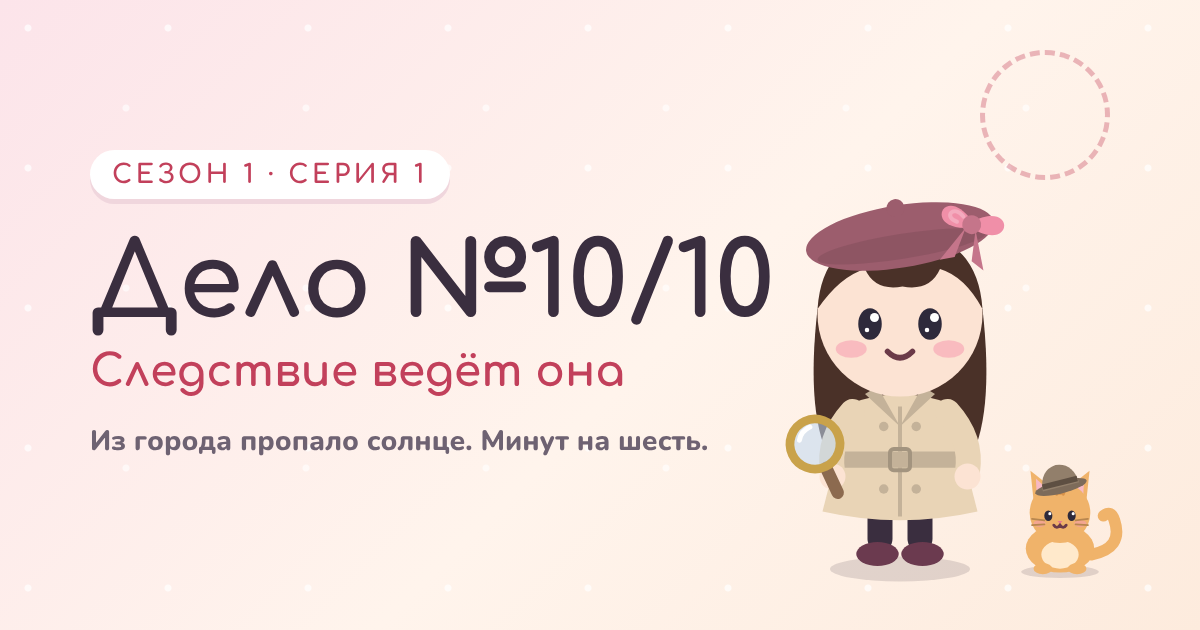
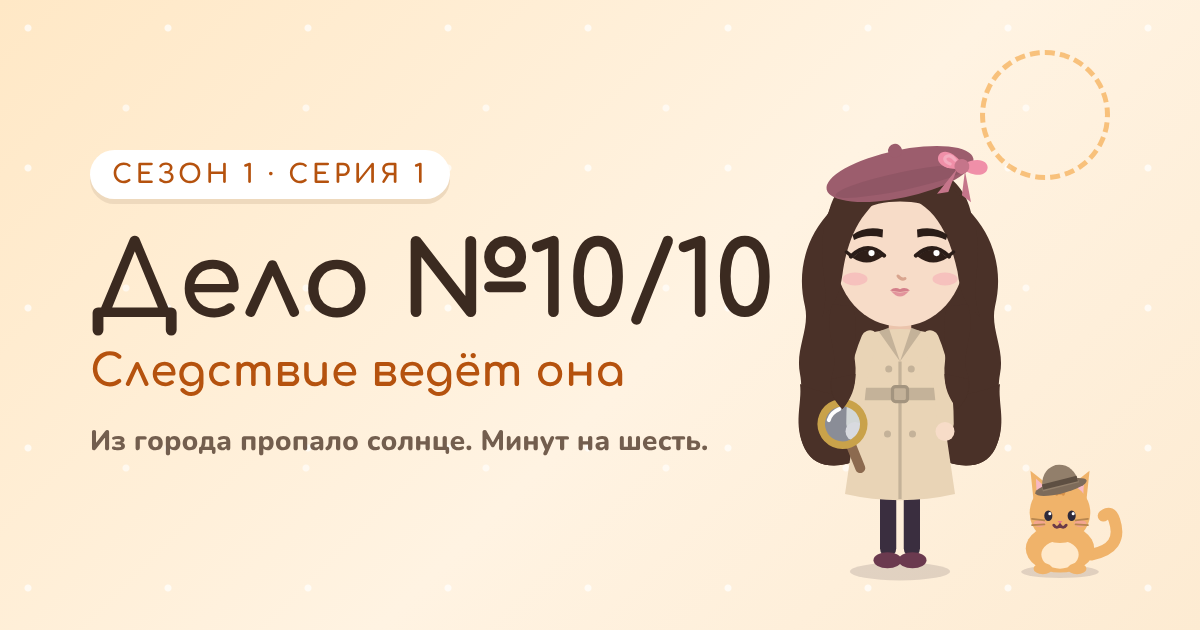
Цвета: доводка по критике — пропущенные правки плана и остатки розового
- Окно выбора машины (sedan.js, sedan_v2.js): рамка выбранной карточки
  #B5520E вместо вишнёвой, текст и тени в шоколадной гамме.
- Банты на чехлах машин (car.js, sedan*.js) и на корзинке велосипеда
  (bike.js) — горчица #D9A441/#B9822A.
- Дальний план: дымка far_view.js #EDE0CF, низ гор чуть холоднее;
  хребты города (map.js) — серо-голубые: сирень на тёплом тумане
  давала пыльно-розовые горы на виде парка.
- Вечерний грейд города (daynight.js): без маджентовой дорожки и
  сиреневого света; закат CSS идёт от синего к оранжевому.
- «Капля» внутри: акцент бирюзовый под фасад вместо кислотно-оранжевого.
- Ателье: плашка абрикосовая (под затемнением не уходит в хаки),
  вывеска «ПРИМЕРОЧНАЯ», дверь-терракота, филёнки, ковёр, абажуры,
  рамки эскизов и блик зеркала в тёплой гамме; ленты, береты и ткани
  (товар) не тронуты.
- Кондитерская: rgba-полоски обоев, сетка пола, рамка меню и мебель
  зала в новой гамме; вишенка на пирожном осталась красной.
- Под крышей: решётка двери и булавки на доске без винно-розового.
- Запасной интерфейс аркады (runner.js 573–589) — по плану; 3D-часть
  и всё остальное в js/village не тронуты.
- Загрузка стендов village/runner: текст шоколадом (≈8:1).
- Отладочная пилюля «плохо» в world.html — настоящий красный.
- Обложка превью ссылки (tools/cover.html → cover.png) в новой гамме;
  героиня на рисунке не тронута. В site/ — при выпуске.

Проверено: node --check, сборка --prod, scan_words — 0 попаданий.
[…]

diff --git a/js/places/atelier.js b/js/places/atelier.js
@@ -27,6 +27,7 @@
         cream: toon('#FFFDF9'), creamD: toon('#F6E9DF'), gold: glow('#E8C770', '#B8903A', 0.14), wood: toon('#D2A77E'), woodD: toon('#A87E5C'),
         cherry: toon('#C2405B'), pink: toon('#F08FA8'), powder: toon('#F7C9D3'), mint: toon('#BFE6D3'), lav: toon('#D9CCF4'), beige: toon(BEIGE),
         beigeD: toon('#D2B994'), butter: toon('#FFE08A'), silver: toon('#DCE1E8'), ink: toon('#5B4A63'),
+        door: toon('#A9502F'), panel: toon('#E2C58A'), shade: toon('#E9B07A'),
         glass: glow('#DDE6F2', '#DDE6F2', 0.15), lamp: glow('#FFE9B8', '#FFC46B', 0.9), 
       };
       const hitM = basic('#FFFFFF', { visible: false });
@@ -60,23 +61,23 @@
         ac.fillStyle = 'rgba(255,240,220,.18)'; ac.fillRect(0, 0, 1024, 768);
       }
       ac = ac0;   // дальше — атлас
-      { // круглый ковёр: пудровый, кремовые фестоны, вишнёвая каёмка, цветочки
+      { // круглый ковёр: песочный, кремовые фестоны, янтарная каёмка, цветочки
         const cx = 1024 + 256, cy = 256;
         ac.fillStyle = '#FFF4EC'; for (let i = 0; i < 28; i++) { const a = i / 28 * PI * 2; ac.beginPath(); ac.arc(cx + Math.cos(a) * 232, cy + Math.sin(a) * 232, 22, 0, 7); ac.fill(); }
         ac.beginPath(); ac.arc(cx, cy, 236, 0, 7); ac.fill();
-        ac.fillStyle = '#F7C9D3'; ac.beginPath(); ac.arc(cx, cy, 214, 0, 7); ac.fill();
-        ac.strokeStyle = '#C2405B'; ac.lineWidth = 6; ac.beginPath(); ac.arc(cx, cy, 196, 0, 7); ac.stroke();
+        ac.fillStyle = '#F2D7A0'; ac.beginPath(); ac.arc(cx, cy, 214, 0, 7); ac.fill();
+        ac.strokeStyle = '#B5520E'; ac.lineWidth = 6; ac.beginPath(); ac.arc(cx, cy, 196, 0, 7); ac.stroke();
         ac.strokeStyle = '#FFF4EC'; ac.lineWidth = 4; ac.beginPath(); ac.arc(cx, cy, 120, 0, 7); ac.stroke();
         for (let i = 0; i < 10; i++) { const a = i / 10 * PI * 2, x = cx + Math.cos(a) * 160, y = cy + Math.sin(a) * 160;
           ac.fillStyle = '#FFFDF9'; for (let k = 0; k < 5; k++) { const b = k / 5 * PI * 2; ac.beginPath(); ac.arc(x + Math.cos(b) * 9, y + Math.sin(b) * 9, 7, 0, 7); ac.fill(); }
           ac.fillStyle = '#E8C770'; ac.beginPath(); ac.arc(x, y, 5, 0, 7); ac.fill(); }
-        ac.fillStyle = '#F08FA8'; [[-24, 0], [24, 0]].forEach(([dx]) => { ac.beginPath(); ac.ellipse(cx + dx, cy, 30, 18, dx > 0 ? 0.4 : -0.4, 0, 7); ac.fill(); });
-        ac.fillStyle = '#C2405B'; ac.beginPath(); ac.arc(cx, cy, 10, 0, 7); ac.fill();
+        ac.fillStyle = '#D9A441'; [[-24, 0], [24, 0]].forEach(([dx]) => { ac.beginPath(); ac.ellipse(cx + dx, cy, 30, 18, dx > 0 ? 0.4 : -0.4, 0, 7); ac.fill(); });
+        ac.fillStyle = '#B9822A'; ac.beginPath(); ac.arc(cx, cy, 10, 0, 7); ac.fill();
       }
       { // вывеска «ПРИМЕРОЧНАЯ»
         const x = 1536, y = 0; ac.fillStyle = '#FFFDF9'; R.rrect(ac, x + 4, y + 4, 504, 120, 30); ac.fill();
         ac.strokeStyle = '#E8C770'; ac.lineWidth = 6; R.rrect(ac, x + 14, y + 14, 484, 100, 24); ac.stroke();
-        R.text(ac, 'ПРИМЕРОЧНАЯ', x + 256, y + 66, 54, '#C2405B', { f: 'Comfortaa', w: 700, max: 430 });
+        R.text(ac, 'ПРИМЕРОЧНАЯ', x + 256, y + 66, 54, '#B5520E', { f: 'Comfortaa', w: 700, max: 430 });
       }
       { // табличка «ВЫХОД»
         const x = 1536, y = 136; ac.fillStyle = '#2A1D14'; R.rrect(ac, x, y, 320, 96, 18); ac.fill(); R.text(ac, 'ВЫХОД', x + 160, y + 50, 58, '#BFF0CE');
@@ -84,12 +85,12 @@
       // эскизы мод в рамках: силуэты с бантом и беретом
       const sketch = (x, y, coat, bow) => {
         ac.fillStyle = '#FFF8F0'; ac.fillRect(x, y, 192, 256);
-        ac.strokeStyle = '#C9A2AE'; ac.lineWidth = 3; ac.strokeRect(x + 10, y + 10, 172, 236);
+        ac.strokeStyle = '#C9A57E'; ac.lineWidth = 3; ac.strokeRect(x + 10, y + 10, 172, 236);
         ac.fillStyle = coat; ac.beginPath(); ac.moveTo(x + 96, y + 92); ac.lineTo(x + 140, y + 220); ac.lineTo(x + 52, y + 220); ac.closePath(); ac.fill();
         ac.fillStyle = '#F7DCC8'; ac.beginPath(); ac.arc(x + 96, y + 72, 24, 0, 7); ac.fill();
         ac.fillStyle = bow; ac.beginPath(); ac.ellipse(x + 96, y + 50, 30, 10, -0.2, 0, 7); ac.fill();
         ac.strokeStyle = '#7A6A76'; ac.lineWidth = 2.5; ac.beginPath(); ac.moveTo(x + 76, y + 222); ac.lineTo(x + 74, y + 238); ac.moveTo(x + 116, y + 222); ac.lineTo(x + 118, y + 238); ac.stroke();
-        R.text(ac, 'эскиз', x + 96, y + 30, 22, '#B48A9A', { f: 'Caveat', w: 700 });
+        R.text(ac, 'эскиз', x + 96, y + 30, 22, '#A87A52', { f: 'Caveat', w: 700 });
       };
       sketch(1536, 256, '#E9D4B6', '#F08FA8'); sketch(1760, 256, '#D9CCF4', '#C2405B');
 
@@ -128,8 +129,8 @@
       /* --- дверь на улицу (левая стена) и «ВЫХОД» --- */
       { const dz = -0.95, dg = grp(fx, -W / 2 + 0.01, 0, dz, PI / 2);
         put(dg, R.extrude(R.archShape(1.18, 2.22), 0.06), M.gold, [0, 0, 0.02]);
-        put(dg, R.extrude(R.archShape(1.0, 2.1), 0.05), M.cherry, [0, 0, 0.06]);
-        [-0.22, 0.22].forEach(x => box(dg, M.pink, x, 0.75, 0.115, 0.32, 0.7, 0.02));
+        put(dg, R.extrude(R.archShape(1.0, 2.1), 0.05), M.door, [0, 0, 0.06]);
+        [-0.22, 0.22].forEach(x => box(dg, M.panel, x, 0.75, 0.115, 0.32, 0.7, 0.02));
         cyl(dg, M.glass, 0, 1.6, 0.12, 0.15, 0.03, [PI / 2, 0, 0]); put(dg, R.ringG(0.15, 0.025), M.gold, [0, 1.6, 0.13]);
         R.sph(dg, M.gold, 0.36, 1.0, 0.13, 0.045);
         aplane(dg, [1536, 136, 320, 96], [0, 2.52, 0.09], [0.7, 0.21, 1]);
@@ -144,7 +145,7 @@
         put(mg, R.extrude(ring, 0.06), M.gold, [0, 0, 0]);
         const [gcv, gc] = R.cnv(128, 256), gg = gc.createLinearGradient(0, 0, 128, 256);
         gg.addColorStop(0, '#F4F7FC'); gg.addColorStop(0.45, '#DCE5F2'); gg.addColorStop(1, '#C9D2EA'); gc.fillStyle = gg; gc.fillRect(0, 0, 128, 256);
-        gc.fillStyle = 'rgba(247,201,211,.35)'; gc.beginPath(); gc.ellipse(64, 236, 70, 40, 0, 0, 7); gc.fill();
+        gc.fillStyle = 'rgba(240,190,110,.35)'; gc.beginPath(); gc.ellipse(64, 236, 70, 40, 0, 0, 7); gc.fill();
         gc.fillStyle = 'rgba(255,255,255,.7)'; gc.beginPath(); gc.moveTo(18, 120); gc.lineTo(60, 40); gc.lineTo(78, 40); gc.lineTo(36, 120); gc.closePath(); gc.fill();
         const glassG = R.keep(new T.ShapeGeometry(ell(0.43, 0.73), 28)); { const p = glassG.attributes.position, uv = glassG.attributes.uv; for (let i = 0; i < p.count; i++) uv.setXY(i, p.getX(i) / 0.86 + 0.5, p.getY(i) / 1.46 + 0.5); }
         put(mg, glassG, basic('#FFFFFF', { map: R.tex(gcv) }), [0, 0, 0.02]);
@@ -253,7 +254,7 @@
       [-1.75, 1.75].forEach(x => {
         const sg = grp(fx, x, 0, -D + 0.02);
         box(sg, M.ink, 0, 2.05, 0.03, 0.07, 0.14, 0.05); cyl(sg, M.ink, 0, 2.08, 0.15, 0.012, 0.22, [PI / 2, 0, 0]);
-        put(sg, GEO.cylLo, M.lamp, [0, 1.99, 0.26], [0.065, 0.15, 0.065]); put(sg, GEO.cone, M.pink, [0, 2.13, 0.26], [0.11, 0.09, 0.11]);
+        put(sg, GEO.cylLo, M.lamp, [0, 1.99, 0.26], [0.065, 0.15, 0.065]); put(sg, GEO.cone, M.shade, [0, 2.13, 0.26], [0.11, 0.09, 0.11]);
         R.halo(g, x, 2.0, -D + 0.3, 0.95, '#FFC890', 0.5);
       });
 
@@ -400,13 +401,13 @@
     } catch (e) { /* ушла */ }
   }
 
-  if (G.addSpeakers) G.addSpeakers({ sheep: { name: () => 'Кашемира', art: () => G.emojiAvatar('🐑', '#F5DFA8') } });
+  if (G.addSpeakers) G.addSpeakers({ sheep: { name: () => 'Кашемира', art: () => G.emojiAvatar('🐑', '#F9CF9C') } });
 
   Town.place({
     id: P, kind: 'new', storySafe: true,   // проверено: без спойлеров серии 1 — можно заходить во время дела
     name: 'Ателье «Бант и берет»', short: 'Ателье',
     sign: 'БАНТ и БЕРЕТ', motto: 'ателье · примерочная · зеркало',
-    icon: '🎀', color: '#F5DFA8',
+    icon: '🎀', color: '#F9CF9C',
     street: { x: -11.0, w: 3.4, doorDx: 0, bkey: null },
     room: P, opens: 0,
     host: { who: 'sheep', npc: 'sheep' },

diff --git a/js/village/runner.js b/js/village/runner.js
@@ -570,20 +570,20 @@
   function stubUI(ctx) {
     const root = ctx.root, el = document.createElement('div'); el.className = 'rnr-stub';
     const css = document.createElement('style');
-    css.textContent = '.rnr-stub{position:absolute;inset:0;pointer-events:none;font-family:Nunito,system-ui,sans-serif;color:#3A2E3F;-webkit-user-select:none;user-select:none}' +
+    css.textContent = '.rnr-stub{position:absolute;inset:0;pointer-events:none;font-family:Nunito,system-ui,sans-serif;color:#3B2A20;-webkit-user-select:none;user-select:none}' +
       '.rnr-stub button{pointer-events:auto;font:inherit;border:0;cursor:pointer}' +
       '.rnr-top{position:absolute;left:12px;right:12px;top:calc(10px + env(safe-area-inset-top,0px));display:flex;gap:8px;align-items:flex-start}' +
-      '.rnr-pill{background:rgba(255,253,249,.92);border-radius:14px;padding:6px 11px;font-weight:900;font-size:15px;box-shadow:0 3px 0 rgba(58,46,63,.12);white-space:nowrap}' +
-      '.rnr-pill small{display:block;font-size:11px;font-weight:800;color:#6E6272}.rnr-coin::before{content:"";display:inline-block;width:13px;height:13px;margin-right:5px;vertical-align:-1px;border-radius:50%;background:radial-gradient(circle at 35% 35%,#fff,#C2C6BF 55%,#8E928E)}' +
-      '.rnr-sp{flex:1}.rnr-pause{width:42px;height:42px;border-radius:14px!important;background:rgba(255,253,249,.92);font-size:18px!important;box-shadow:0 3px 0 rgba(58,46,63,.12)}' +
+      '.rnr-pill{background:rgba(255,253,249,.92);border-radius:14px;padding:6px 11px;font-weight:900;font-size:15px;box-shadow:0 3px 0 rgba(59,42,32,.12);white-space:nowrap}' +
+      '.rnr-pill small{display:block;font-size:11px;font-weight:800;color:#735E4E}.rnr-coin::before{content:"";display:inline-block;width:13px;height:13px;margin-right:5px;vertical-align:-1px;border-radius:50%;background:radial-gradient(circle at 35% 35%,#fff,#C2C6BF 55%,#8E928E)}' +
+      '.rnr-sp{flex:1}.rnr-pause{width:42px;height:42px;border-radius:14px!important;background:rgba(255,253,249,.92);font-size:18px!important;box-shadow:0 3px 0 rgba(59,42,32,.12)}' +
       '.rnr-pw{position:absolute;left:12px;top:calc(64px + env(safe-area-inset-top,0px));display:flex;gap:6px}.rnr-pw span{background:rgba(255,253,249,.9);border-radius:12px;padding:4px 8px;font-weight:900;font-size:12px}' +
       '.rnr-ban{position:absolute;left:50%;top:22%;transform:translateX(-50%) scale(.8);background:#FFF6D8;border:3px dashed #E2B04E;color:#7A5418;font-weight:900;font-size:17px;padding:10px 16px;border-radius:18px;opacity:0;transition:opacity .3s,transform .35s;white-space:nowrap}' +
       '.rnr-ban.on{opacity:1;transform:translateX(-50%) scale(1)}' +
-      '.rnr-tut{position:absolute;left:50%;top:56%;transform:translateX(-50%);background:rgba(58,46,63,.82);color:#fff;font-weight:900;font-size:17px;padding:10px 16px;border-radius:16px;display:none;white-space:nowrap}' +
-      '.rnr-card{position:absolute;inset:0;display:none;place-items:center;background:rgba(58,46,63,.28);pointer-events:auto}.rnr-card.on{display:grid}' +
-      '.rnr-box{background:#FFFDF9;border-radius:20px;padding:16px;width:min(340px,86vw);box-shadow:0 8px 30px rgba(58,46,63,.25);text-align:center}' +
-      '.rnr-box h2{margin:0 0 6px;color:#C2405B;font-size:22px;font-weight:900}.rnr-box p{margin:6px 0;font-weight:700;font-size:14.5px}' +
-      '.rnr-row{display:flex;gap:8px;margin-top:12px}.rnr-row button{flex:1;border-radius:14px;padding:12px 8px;font-weight:900;font-size:15px;background:#F6E7EB;color:#3A2E3F}.rnr-row button.main{background:#C2405B;color:#fff;box-shadow:0 4px 0 #9E2F47}';
+      '.rnr-tut{position:absolute;left:50%;top:56%;transform:translateX(-50%);background:rgba(59,42,32,.82);color:#fff;font-weight:900;font-size:17px;padding:10px 16px;border-radius:16px;display:none;white-space:nowrap}' +
+      '.rnr-card{position:absolute;inset:0;display:none;place-items:center;background:rgba(59,42,32,.28);pointer-events:auto}.rnr-card.on{display:grid}' +
+      '.rnr-box{background:#FFFDF9;border-radius:20px;padding:16px;width:min(340px,86vw);box-shadow:0 8px 30px rgba(59,42,32,.25);text-align:center}' +
+      '.rnr-box h2{margin:0 0 6px;color:#B5520E;font-size:22px;font-weight:900}.rnr-box p{margin:6px 0;font-weight:700;font-size:14.5px}' +
+      '.rnr-row{display:flex;gap:8px;margin-top:12px}.rnr-row button{flex:1;border-radius:14px;padding:12px 8px;font-weight:900;font-size:15px;background:#F6EAD9;color:#3B2A20}.rnr-row button.main{background:#B5520E;color:#fff;box-shadow:0 4px 0 #6B3517}';
     el.innerHTML = '<div class="rnr-top"><div class="rnr-pill" data-k="score">0<small>очки</small></div><div class="rnr-pill rnr-coin" data-k="coins">0</div>' +
       '<div class="rnr-pill" data-k="dist">0 м<small>×1</small></div><div class="rnr-sp"></div><button class="rnr-pause" aria-label="Пауза">⏸</button></div>' +
       '<div class="rnr-pw"></div><div class="rnr-ban"></div><div class="rnr-tut"></div><div class="rnr-card"><div class="rnr-box"></div></div>';

diff --git a/js/vehicles/sedan.js b/js/vehicles/sedan.js
@@ -1183,7 +1183,7 @@
     function makeCover() {
       const g = new T3.Group(); body.add(g); g.name = 'sedanCover';
       const toon = (c) => new T3.MeshToonMaterial({ color: new T3.Color(c), gradientMap: md.paint.material.gradientMap });
-      const cloth = toon('#EADCD2'), bowM = toon('#E58FA6'), bowD = toon('#C9667E');
+      const cloth = toon('#EADCD2'), bowM = toon('#D9A441'), bowD = toon('#B9822A');
       const m = new T3.Mesh(md.paint.geometry, cloth); m.scale.set(1.035, 1.025, 1.015); m.position.y = 0.004; g.add(m);
       const sph = new T3.SphereGeometry(1, 16, 11), cyl = new T3.CylinderGeometry(1, 1, 1, 12);
       const add = (geo, mat, p, s, r) => { const x = new T3.Mesh(geo, mat); x.position.set(p[0], p[1], p[2]); x.scale.set(s[0], s[1], s[2]); if (r) x.rotation.set(r[0], r[1], r[2]); x.castShadow = true; g.add(x); return x; };
@@ -1426,15 +1426,15 @@
     let cur = o.current || 'coupe';
     const cards = CHOICES.map(c => {
       const b = document.createElement('button'); b.type = 'button'; b.dataset.id = c.id;
-      b.style.cssText = 'flex:1;min-height:96px;border:0;border-radius:18px;padding:10px 8px;background:#FFFDF9;color:#3A2E3F;font:inherit;cursor:pointer;box-shadow:0 3px 0 rgba(58,46,63,.14);display:flex;flex-direction:column;align-items:center;gap:6px;';
+      b.style.cssText = 'flex:1;min-height:96px;border:0;border-radius:18px;padding:10px 8px;background:#FFFDF9;color:#3B2A20;font:inherit;cursor:pointer;box-shadow:0 3px 0 rgba(59,42,32,.14);display:flex;flex-direction:column;align-items:center;gap:6px;';
       const dot = document.createElement('span'); dot.style.cssText = `width:46px;height:22px;border-radius:12px 12px 6px 6px;background:${c.color};box-shadow:inset 0 -5px 0 rgba(0,0,0,.12);`;
       const t = document.createElement('b'); t.textContent = c.title; t.style.cssText = 'font-weight:900;font-size:15px;';
-      const n = document.createElement('small'); n.textContent = c.note; n.style.cssText = 'font-weight:700;font-size:11px;color:#6E6272;';
+      const n = document.createElement('small'); n.textContent = c.note; n.style.cssText = 'font-weight:700;font-size:11px;color:#735E4E;';
       b.append(dot, t, n);
       b.addEventListener('click', () => { cur = c.id; paint(); if (o.onPick) o.onPick(c.id, c); });
       return b;
     });
-    const paint = () => cards.forEach(b => { const on = b.dataset.id === cur; b.style.outline = on ? '3px solid #C2405B' : 'none'; b.setAttribute('aria-pressed', on ? 'true' : 'false'); });
+    const paint = () => cards.forEach(b => { const on = b.dataset.id === cur; b.style.outline = on ? '3px solid #B5520E' : 'none'; b.setAttribute('aria-pressed', on ? 'true' : 'false'); });
     cards.forEach(b => wrap.appendChild(b)); paint();
     wrap.select = id => { cur = id; paint(); };
     return wrap;

diff --git a/js/vehicles/sedan_v2.js b/js/vehicles/sedan_v2.js
@@ -1138,7 +1138,7 @@
     function makeCover() {
       const g = new T3.Group(); body.add(g); g.name = 'sedanCover';
       const toon = (c) => new T3.MeshToonMaterial({ color: new T3.Color(c), gradientMap: md.paint.material.gradientMap });
-      const cloth = toon('#EADCD2'), bowM = toon('#E58FA6'), bowD = toon('#C9667E');
+      const cloth = toon('#EADCD2'), bowM = toon('#D9A441'), bowD = toon('#B9822A');
       const m = new T3.Mesh(md.paint.geometry, cloth); m.scale.set(1.035, 1.025, 1.015); m.position.y = 0.004; g.add(m);
       const sph = new T3.SphereGeometry(1, 16, 11), cyl = new T3.CylinderGeometry(1, 1, 1, 12);
       const add = (geo, mat, p, s, r) => { const x = new T3.Mesh(geo, mat); x.position.set(p[0], p[1], p[2]); x.scale.set(s[0], s[1], s[2]); if (r) x.rotation.set(r[0], r[1], r[2]); x.castShadow = true; g.add(x); return x; };
@@ -1364,15 +1364,15 @@
     let cur = o.current || 'coupe';
     const cards = CHOICES.map(c => {
       const b = document.createElement('button'); b.type = 'button'; b.dataset.id = c.id;
-      b.style.cssText = 'flex:1;min-height:96px;border:0;border-radius:18px;padding:10px 8px;background:#FFFDF9;color:#3A2E3F;font:inherit;cursor:pointer;box-shadow:0 3px 0 rgba(58,46,63,.14);display:flex;flex-direction:column;align-items:center;gap:6px;';
+      b.style.cssText = 'flex:1;min-height:96px;border:0;border-radius:18px;padding:10px 8px;background:#FFFDF9;color:#3B2A20;font:inherit;cursor:pointer;box-shadow:0 3px 0 rgba(59,42,32,.14);display:flex;flex-direction:column;align-items:center;gap:6px;';
       const dot = document.createElement('span'); dot.style.cssText = `width:46px;height:22px;border-radius:12px 12px 6px 6px;background:${c.color};box-shadow:inset 0 -5px 0 rgba(0,0,0,.12);`;
       const t = document.createElement('b'); t.textContent = c.title; t.style.cssText = 'font-weight:900;font-size:15px;';
-      const n = document.createElement('small'); n.textContent = c.note; n.style.cssText = 'font-weight:700;font-size:11px;color:#6E6272;';
+      const n = document.createElement('small'); n.textContent = c.note; n.style.cssText = 'font-weight:700;font-size:11px;color:#735E4E;';
       b.append(dot, t, n);
       b.addEventListener('click', () => { cur = c.id; paint(); if (o.onPick) o.onPick(c.id, c); });
       return b;
     });
-    const paint = () => cards.forEach(b => { const on = b.dataset.id === cur; b.style.outline = on ? '3px solid #C2405B' : 'none'; b.setAttribute('aria-pressed', on ? 'true' : 'false'); });
+    const paint = () => cards.forEach(b => { const on = b.dataset.id === cur; b.style.outline = on ? '3px solid #B5520E' : 'none'; b.setAttribute('aria-pressed', on ? 'true' : 'false'); });
     cards.forEach(b => wrap.appendChild(b)); paint();
     wrap.select = id => { cur = id; paint(); };
     return wrap;

diff --git a/js/rooms/sweets.js b/js/rooms/sweets.js
@@ -114,7 +114,7 @@
       { // меню: «Меню дня», «Хлеб без хлеба»
         const c = ac, gr = c.createRadialGradient(256, 300, 40, 256, 336, 440); gr.addColorStop(0, '#506460'); gr.addColorStop(1, '#3A4A49'); c.fillStyle = gr; c.fillRect(0, 0, 512, 672);
         c.globalAlpha = 0.07; c.fillStyle = '#FFFFFF'; for (let i = 0; i < 14; i++) { c.beginPath(); c.ellipse(60 + (i * 97) % 400, 80 + (i * 173) % 520, 70, 20, (i % 5) * 0.4, 0, 7); c.fill(); } c.globalAlpha = 1;
-        c.setLineDash([16, 12]); c.strokeStyle = 'rgba(255,214,224,.75)'; c.lineWidth = 6; R.rrect(c, 22, 22, 468, 628, 30); c.stroke(); c.setLineDash([]);
+        c.setLineDash([16, 12]); c.strokeStyle = 'rgba(255,226,184,.75)'; c.lineWidth = 6; R.rrect(c, 22, 22, 468, 628, 30); c.stroke(); c.setLineDash([]);
         R.text(c, 'Меню дня', 256, 112, 112, '#FFF6EE', { f: 'Caveat', w: 700, max: 440 });
         c.strokeStyle = '#BFE6D3'; c.lineWidth = 7; c.lineCap = 'round'; c.beginPath(); for (let x = 110; x <= 402; x += 4) { const y = 178 + Math.sin(x / 13) * 6; x === 110 ? c.moveTo(x, y) : c.lineTo(x, y); } c.stroke();
         R.text(c, 'Хлеб', 256, 300, 136, '#F9D29A', { f: 'Caveat', w: 700 });
@@ -148,7 +148,7 @@
       const [fcv, fc] = R.cnv(256, 256);
       fc.fillStyle = '#FFF6EF'; fc.fillRect(0, 0, 256, 256);
       fc.fillStyle = '#F3DDC0'; fc.fillRect(0, 0, 128, 128); fc.fillRect(128, 128, 128, 128);
-      fc.strokeStyle = 'rgba(214,150,165,.32)'; fc.lineWidth = 3;
+      fc.strokeStyle = 'rgba(200,150,100,.32)'; fc.lineWidth = 3;
       [0, 128, 256].forEach(v => { fc.beginPath(); fc.moveTo(v, 0); fc.lineTo(v, 256); fc.stroke(); fc.beginPath(); fc.moveTo(0, v); fc.lineTo(256, v); fc.stroke(); });
       box(sw, mm.pink, 0, -0.06, -D / 2, W + 0.4, 0.12, D + 0.2);
       put(sw, tiled(W, D, 1, 1), R.toon('#FFFFFF', { map: repTex(fcv) }), [0, 0.003, -D / 2], null, [-PI / 2, 0, 0]);
@@ -157,7 +157,7 @@
       const [wcv, wc] = R.cnv(256, 256);
       wc.fillStyle = '#FCEBD6'; wc.fillRect(0, 0, 256, 256);
       wc.fillStyle = '#CFE6D6'; [0, 128].forEach(x => wc.fillRect(x, 0, 64, 256));
-      wc.fillStyle = 'rgba(240,143,168,.4)'; [0, 64, 128, 192].forEach(x => wc.fillRect(x - 1, 0, 3, 256));
+      wc.fillStyle = 'rgba(240,160,106,.4)'; [0, 64, 128, 192].forEach(x => wc.fillRect(x - 1, 0, 3, 256));
       wc.fillStyle = '#FFFFFF'; [[96, 40], [96, 168], [224, 104], [224, 232]].forEach(([x, y]) => { wc.beginPath(); wc.arc(x, y, 6, 0, 7); wc.fill(); });
       const paperM = R.toon('#FFFFFF', { map: repTex(wcv) });
       box(sw, mm.pink, 0, H / 2, -D - 0.1, W + 0.4, H, 0.2);

diff --git a/tools/cover.html b/tools/cover.html
@@ -2,15 +2,15 @@
 <link href="https://fonts.googleapis.com/css2?family=Comfortaa:wght@700&family=Nunito:wght@800;900&display=swap" rel="stylesheet">
 <style>
 html,body{margin:0;width:1200px;height:630px;overflow:hidden}
-.c{position:relative;width:1200px;height:630px;background:radial-gradient(circle at 20% 20%,rgba(255,255,255,.7) 0 3px,transparent 4px),radial-gradient(circle at 70% 60%,rgba(255,255,255,.6) 0 3px,transparent 4px),linear-gradient(135deg,#FCE4EA 0%,#FFF4EC 55%,#FDEBDD 100%);background-size:140px 140px,180px 180px,100% 100%;font-family:Nunito,sans-serif;color:#3A2E3F}
+.c{position:relative;width:1200px;height:630px;background:radial-gradient(circle at 20% 20%,rgba(255,255,255,.7) 0 3px,transparent 4px),radial-gradient(circle at 70% 60%,rgba(255,255,255,.6) 0 3px,transparent 4px),linear-gradient(135deg,#FFE8C6 0%,#FFF3E2 55%,#FDEBD2 100%);background-size:140px 140px,180px 180px,100% 100%;font-family:Nunito,sans-serif;color:#3B2A20}
 .t{position:absolute;left:90px;top:150px}
-.badge{display:inline-block;font-family:Comfortaa,sans-serif;font-weight:700;font-size:26px;letter-spacing:.14em;color:#C2405B;background:#fff;padding:10px 22px;border-radius:999px;box-shadow:0 5px 0 #F0D6DD}
+.badge{display:inline-block;font-family:Comfortaa,sans-serif;font-weight:700;font-size:26px;letter-spacing:.14em;color:#B5520E;background:#fff;padding:10px 22px;border-radius:999px;box-shadow:0 5px 0 #EED9BD}
 h1{font-family:Comfortaa,sans-serif;font-weight:700;font-size:104px;margin:26px 0 6px;letter-spacing:-.01em}
-h2{font-family:Comfortaa,sans-serif;font-weight:700;font-size:44px;margin:0;color:#C2405B}
-p{font-weight:800;font-size:28px;color:#6E6272;margin-top:26px}
+h2{font-family:Comfortaa,sans-serif;font-weight:700;font-size:44px;margin:0;color:#B5520E}
+p{font-weight:800;font-size:28px;color:#735E4E;margin-top:26px}
 .hero{position:absolute;right:150px;bottom:40px;width:300px}
 .cat{position:absolute;right:70px;bottom:44px;width:140px}
-.sun{position:absolute;right:90px;top:50px;width:120px;height:120px;border-radius:50%;border:5px dashed rgba(194,64,91,.35)}
+.sun{position:absolute;right:90px;top:50px;width:120px;height:120px;border-radius:50%;border:5px dashed rgba(243,154,43,.55)}
 </style></head><body><div class="c">
 <div class="sun"></div>
 <div class="t"><div class="badge">СЕЗОН 1 · СЕРИЯ 1</div><h1>Дело №10/10</h1><h2>Следствие ведёт она</h2><p>Из города пропало солнце. Минут на шесть.</p></div>

diff --git a/js/daynight.js b/js/daynight.js
@@ -126,13 +126,13 @@
         morning: { mul: [0.98, 1.0, 1.04], add: [0.02, 0.03, 0.05], sat: 0.92, skyH: { mul: [0.96, 0.99, 1.04], add: [0.02, 0.03, 0.05] }, skyZ: { mul: [0.92, 0.97, 1.04], add: [0.03, 0.04, 0.06] }, sun: { k: 0.95, tint: [0.97, 0.98, 1.02] } },
         day: {},
         golden: { mul: [1.04, 0.97, 0.9], add: [0.015, 0.005, 0], sat: 1.04, emis: 0.05, skyH: { mul: [1.03, 0.94, 0.86], add: [0.03, 0.01, 0] }, sun: { k: 1.05, tint: [1, 0.92, 0.82] }, glow: 0.3 },
-        evening: { mul: [0.82, 0.68, 0.70], add: [0.03, 0.02, 0.06], sat: 0.88, emis: 0.5, skyH: { mul: [0.82, 0.66, 0.62], add: [0.06, 0.03, 0.07] }, skyZ: { mul: [0.4, 0.4, 0.66], add: [0.03, 0.03, 0.1] }, sun: { k: 0.8, tint: [1, 0.82, 0.76] }, hemi: { k: 0.96, tint: [0.94, 0.9, 1] }, glow: 0.75, lamps: 1, stars: 0.3, moon: 0.7, dusk: 0.85 },
+        evening: { mul: [0.84, 0.70, 0.60], add: [0.03, 0.02, 0.06], sat: 0.88, emis: 0.5, skyH: { mul: [0.86, 0.68, 0.56], add: [0.06, 0.03, 0.07] }, skyZ: { mul: [0.4, 0.4, 0.66], add: [0.03, 0.03, 0.1] }, sun: { k: 0.8, tint: [1, 0.82, 0.76] }, hemi: { k: 0.96, tint: [1, 0.93, 0.86] }, glow: 0.75, lamps: 1, stars: 0.3, moon: 0.7, dusk: 0.85 },
         // волна 4B: окна города ночью теплее и ярче (свечение стёкол ×2,1: «окна горят»), метки и лучи — без грейда
         night: { mul: [0.38, 0.44, 0.72], add: [0.03, 0.04, 0.09], sat: 0.62, emis: 1.1, skyH: { mul: [0.26, 0.31, 0.56], add: [0.03, 0.04, 0.09] }, skyZ: { mul: [0.1, 0.13, 0.32], add: [0.01, 0.02, 0.07] }, sun: { k: 0.7, tint: [0.8, 0.86, 1] }, hemi: { k: 1.08, tint: [0.86, 0.9, 1] }, glow: 1, lamps: 1, stars: 1, moon: 1, nightSky: 1 },
       },
       // CSS-небо города (поверх SKY3D[…] корня): низ ночного слоя совпадает с ночным туманом (#F8D9CC × skyH)
       css: {
-        dusk: 'linear-gradient(180deg,#6F6AAE 0%,#A98BC4 18%,#E8A878 32%,#F2C08A 40%,#F2C08A 100%)',
+        dusk: 'linear-gradient(180deg,#6F6AAE 0%,#8F8DB8 18%,#E8A878 32%,#F2C08A 40%,#F2C08A 100%)',
         night: 'linear-gradient(180deg,#101838 0%,#18234C 14%,#2C366A 28%,#484E89 40%,#484E89 100%)',
       },
     },

diff --git a/js/rooms/roof.js b/js/rooms/roof.js
@@ -90,7 +90,7 @@
         const w = 174, h = 348;
         c.fillStyle = '#A8653A'; c.fillRect(0, 0, w, h);
         c.fillStyle = '#B9784A'; R.rrect(c, 10, 10, w - 20, h - 20, 10); c.fill();
-        c.strokeStyle = 'rgba(120,50,70,.35)'; c.lineWidth = 2;
+        c.strokeStyle = 'rgba(90,50,25,.35)'; c.lineWidth = 2;
         for (let i = -6; i < 12; i++) { c.beginPath(); c.moveTo(10, 10 + i * 40); c.lineTo(w - 10, 10 + i * 40 + (w - 20)); c.stroke(); c.beginPath(); c.moveTo(w - 10, 10 + i * 40); c.lineTo(10, 10 + i * 40 + (w - 20)); c.stroke(); }
         c.fillStyle = '#F4D27A';
         for (let y = 30; y < h - 12; y += 40) for (let x = 30; x < w - 12; x += 40) { c.beginPath(); c.arc(x - 10 + 10, y, 3.4, 0, 7); c.fill(); }
@@ -344,7 +344,7 @@
         c.save(); c.translate(448, 300); c.rotate(0.1); c.fillStyle = '#E7EFD0'; c.fillRect(-46, -46, 92, 92);
         c.strokeStyle = '#8E8AA6'; c.lineWidth = 3; c.lineCap = 'round';
         [[-20, 18], [0, -2], [20, -22]].forEach(([x, y]) => { c.beginPath(); c.moveTo(x, y + 10); c.lineTo(x, y); c.moveTo(x, y); c.lineTo(x - 7, y - 8); c.moveTo(x, y); c.lineTo(x + 7, y - 8); c.moveTo(x, y); c.lineTo(x, y - 10); c.stroke(); }); c.restore();
-        c.fillStyle = '#C2405B'; [[70, 36], [448, 258]].forEach(([x, y]) => { c.beginPath(); c.arc(x, y, 7, 0, 7); c.fill(); });
+        c.fillStyle = '#B5520E'; [[70, 36], [448, 258]].forEach(([x, y]) => { c.beginPath(); c.arc(x, y, 7, 0, 7); c.fill(); });
         // главная карточка недели
         c.save(); c.translate(282, 196); c.rotate(-0.025);
         c.fillStyle = 'rgba(90,60,40,.25)'; c.fillRect(-150, -138, 312, 290); c.fillStyle = '#FFFBF0'; c.fillRect(-156, -146, 312, 290);

diff --git a/js/places/sweets.js b/js/places/sweets.js
@@ -58,7 +58,7 @@
         R.bake(group, null, { cast: !!cast });
         group.traverse(m => { if (m.isMesh) m.raycast = () => {}; });
       };
-      const pm = R.pm, gold = pm('#E8C770'), cream = pm('#FFFDF9'), stripe = pm('#F08FA8'), pink = pm('#F6C6D0'), cherry = pm('#C2405B');
+      const pm = R.pm, gold = pm('#E8C770'), cream = pm('#FFFDF9'), stripe = pm('#F0A06A'), pink = pm('#F6D2B0'), cherry = pm('#A9502F'), berry = pm('#C2405B');
       const st = new T.Group(); g.add(st);
 
       // столики T2 и T3: круглая столешница, ножка, два стула-сердечка по бокам
@@ -93,7 +93,7 @@
       const plates = TABLES.map(t => {
         const q = new T.Group(); q.position.set(t.plate[0], t.plate[1], t.plate[2]); g.add(q);
         cyl(q, cream, 0, 0.005, 0, 0.11, 0.01); put(q, R.ringG(0.105, 0.006), stripe, [0, 0.012, 0], null, [PI / 2, 0, 0]);
-        cyl(q, pm('#E7B47C'), 0, 0.035, 0, 0.055, 0.05); cyl(q, pm('#FFF4E4'), 0, 0.066, 0, 0.057, 0.014); put(q, GEO.sphLo, cherry, [0.01, 0.085, 0], [0.018, 0.018, 0.018]);
+        cyl(q, pm('#E7B47C'), 0, 0.035, 0, 0.055, 0.05); cyl(q, pm('#FFF4E4'), 0, 0.066, 0, 0.057, 0.014); put(q, GEO.sphLo, berry, [0.01, 0.085, 0], [0.018, 0.018, 0.018]);
         put(q, GEO.cylLo, pm('#E8C770'), [0.07, 0.02, 0.05], [0.006, 0.005, 0.06], [0, 0.6, PI / 2]);
         vcBake(q, false); q.visible = false; return q;
       });

diff --git a/runner.html b/runner.html
@@ -19,7 +19,7 @@
     #c { position: fixed; inset: 0; width: 100%; height: 100%; display: block; touch-action: none; }
     #rroot { position: fixed; inset: 0; z-index: 5; pointer-events: none; }
     #dbg { position: fixed; right: 8px; bottom: calc(8px + env(safe-area-inset-bottom, 0px)); z-index: 9; background: rgba(255,253,249,.86); border-radius: 10px; padding: 5px 8px; font: 700 11px/1.35 ui-monospace, Menlo, monospace; white-space: pre; display: none; pointer-events: none; }
-    #load { position: fixed; inset: 0; z-index: 40; display: grid; place-items: center; background: linear-gradient(180deg, #DCE8F4 0%, #FFF3E2 80%); font-weight: 900; color: #B5520E; font-size: 18px; transition: opacity .5s; }
+    #load { position: fixed; inset: 0; z-index: 40; display: grid; place-items: center; background: linear-gradient(180deg, #DCE8F4 0%, #FFF3E2 80%); font-weight: 900; color: #6B3517; font-size: 18px; transition: opacity .5s; }
     #load.done { opacity: 0; pointer-events: none; }
     #again { position: fixed; left: 50%; top: 50%; transform: translate(-50%, -50%); z-index: 30; display: none; border: 0; border-radius: 18px; padding: 14px 22px; font: inherit; font-weight: 900; font-size: 17px; background: #B5520E; color: #fff; box-shadow: 0 5px 0 #6B3517; cursor: pointer; }
   </style>

diff --git a/village.html b/village.html
@@ -44,7 +44,7 @@
     .fade::before { width: 70vmax; height: 40vmax; left: -10vmax; top: 10vh; } .fade::after { width: 80vmax; height: 46vmax; right: -20vmax; bottom: 5vh; }
     .fade.on { opacity: 1; pointer-events: auto; }
     .fade .lbl { position: absolute; left: 0; right: 0; top: 46%; text-align: center; font-weight: 900; font-size: 20px; color: var(--cherry); z-index: 2; }
-    .load { position: fixed; inset: 0; z-index: 40; display: grid; place-items: center; background: linear-gradient(180deg, #DCE8F4 0%, #FFF3E2 80%); font-weight: 900; color: var(--cherry); font-size: 18px; transition: opacity .5s; }
+    .load { position: fixed; inset: 0; z-index: 40; display: grid; place-items: center; background: linear-gradient(180deg, #DCE8F4 0%, #FFF3E2 80%); font-weight: 900; color: var(--cherry-d); font-size: 18px; transition: opacity .5s; }
     .load.done { opacity: 0; pointer-events: none; }
     .hint { position: absolute; left: 50%; transform: translateX(-50%); bottom: calc(92px + env(safe-area-inset-bottom, 0px)); background: rgba(59,42,32,.82); color: #fff; font-weight: 800; font-size: 13px; padding: 8px 12px; border-radius: 12px; white-space: nowrap; pointer-events: none !important; transition: opacity .9s; }
     .hint.off { opacity: 0; }

diff --git a/world.html b/world.html
@@ -12,7 +12,7 @@
   <style>
     .stats { position: absolute; left: 10px; bottom: calc(150px + env(safe-area-inset-bottom, 0px)); z-index: 95; font-size: 12px; max-width: calc(100% - 20px); font-family: 'Nunito', system-ui, sans-serif; }
     .stats .pill { display: inline-block; padding: 5px 10px; border-radius: 99px; background: rgba(255,253,249,.9); font-weight: 900; color: #3B2A20; cursor: pointer; box-shadow: 0 2px 0 rgba(59,42,32,.12); min-width: 58px; text-align: center; }
-    .stats .pill.ok { color: #3E8E6A; } .stats .pill.mid { color: #C98A2B; } .stats .pill.bad { color: #B5520E; }
+    .stats .pill.ok { color: #3E8E6A; } .stats .pill.mid { color: #C98A2B; } .stats .pill.bad { color: #B8433A; }
     .stats .panel { margin-top: 6px; padding: 10px 12px; border-radius: 14px; background: rgba(255,253,249,.98); box-shadow: 0 4px 14px rgba(59,42,32,.14); width: 268px; max-width: 100%; }
     body.runner-on .stats { display: none; }   /* бег-раннер поверх города: пилюля fps стенда не нужна (в index.html её нет) */
     .stats .row { margin: 2px 0; font-weight: 700; line-height: 1.35; } .stats .row.dim { color: #735E4E; font-weight: 600; font-size: 11px; word-break: break-word; }
